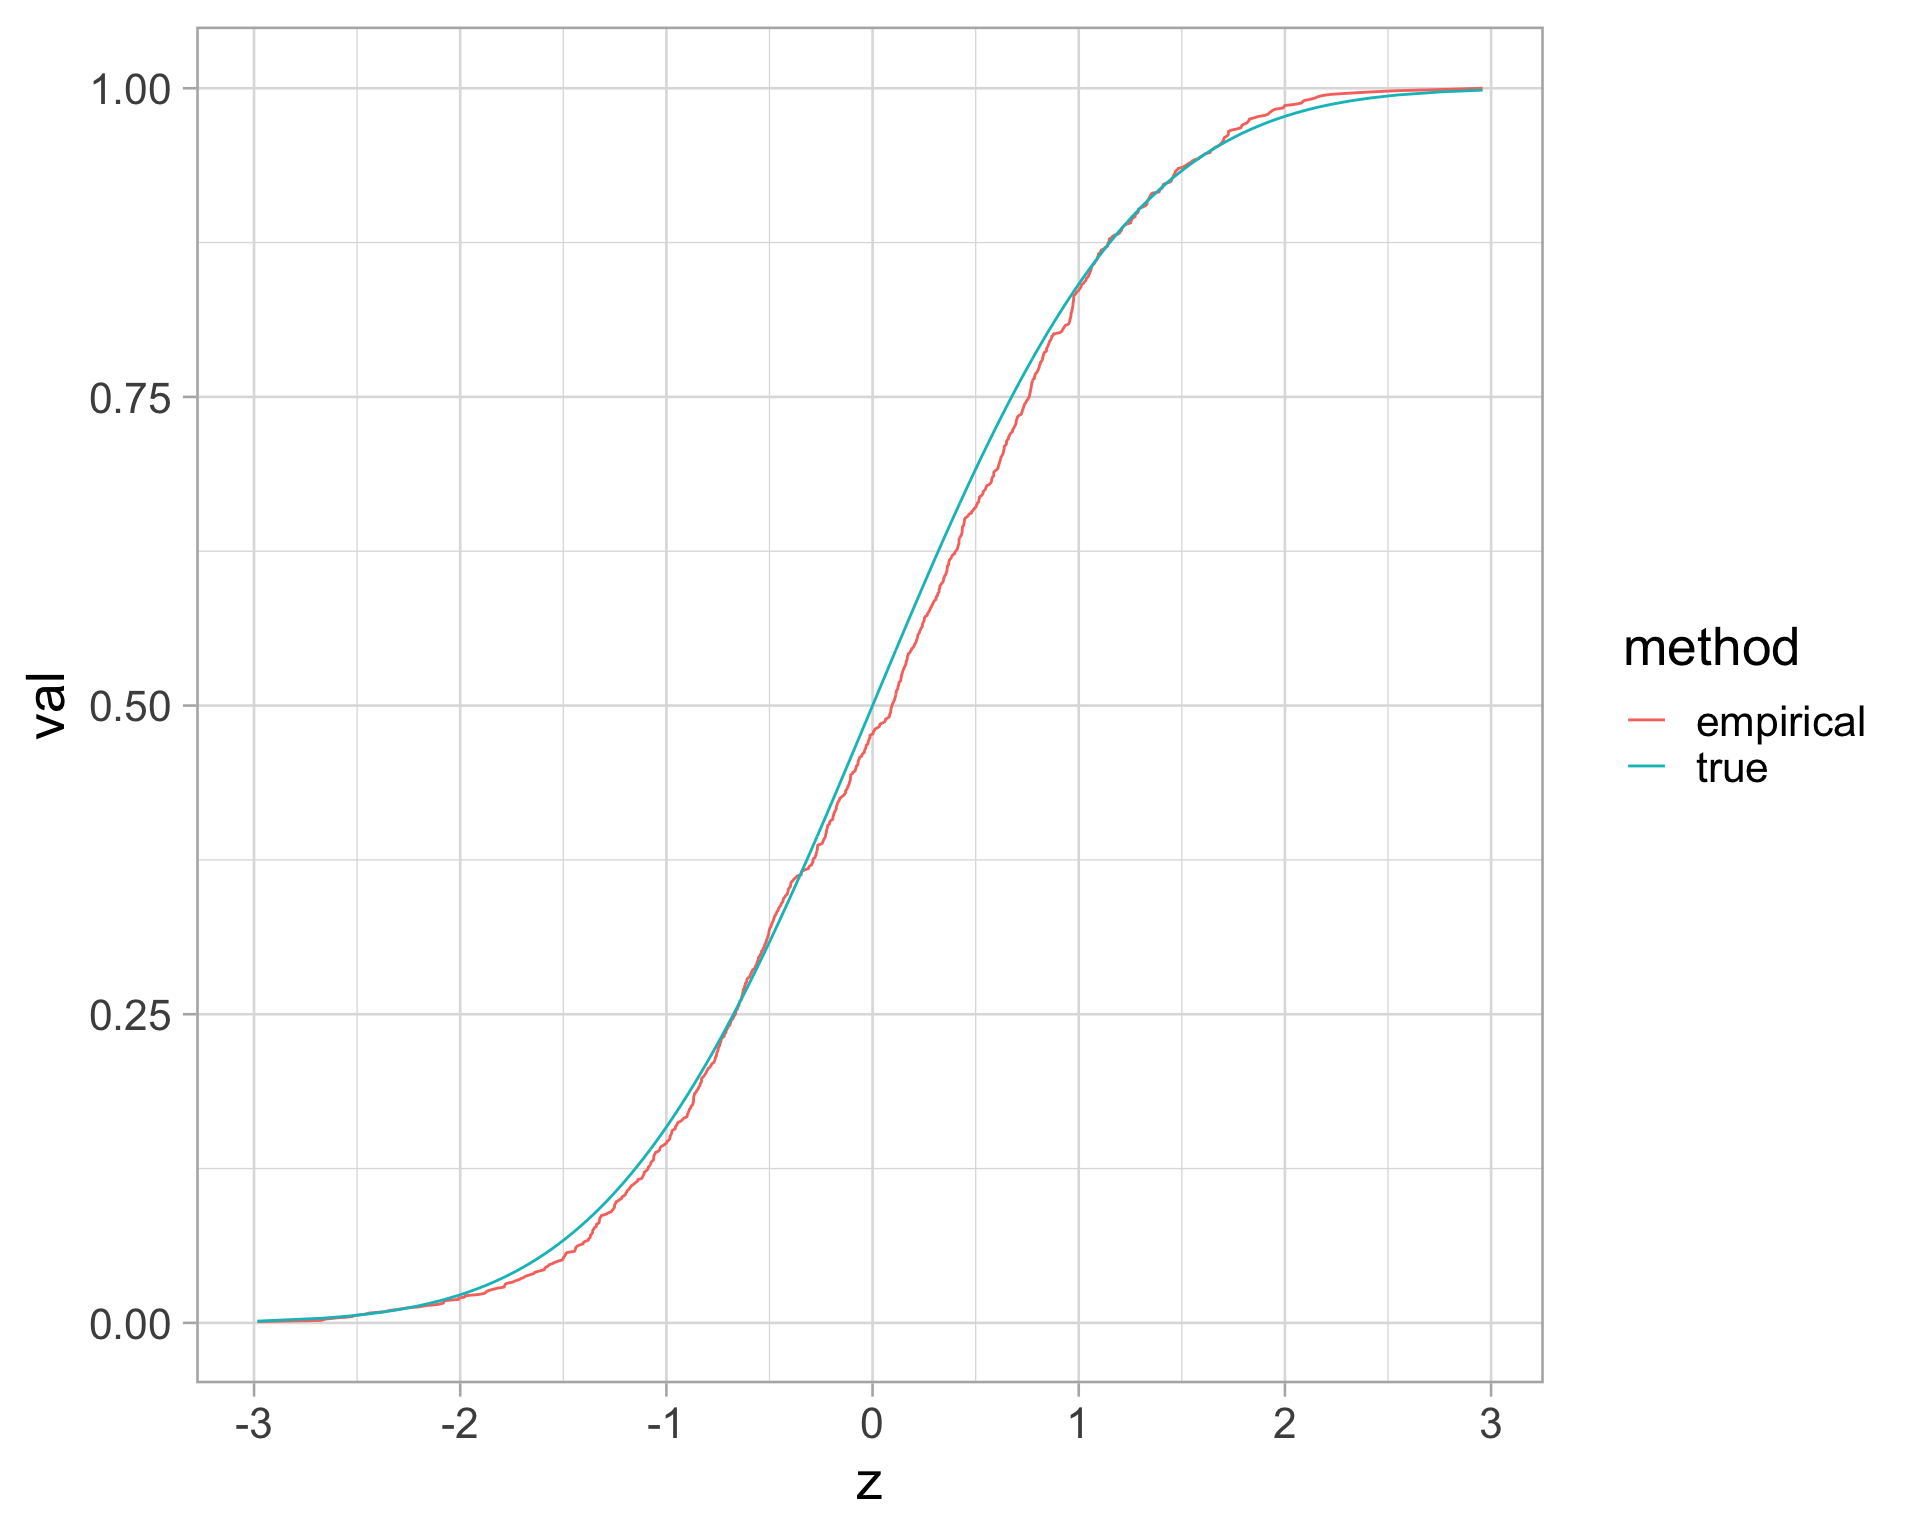
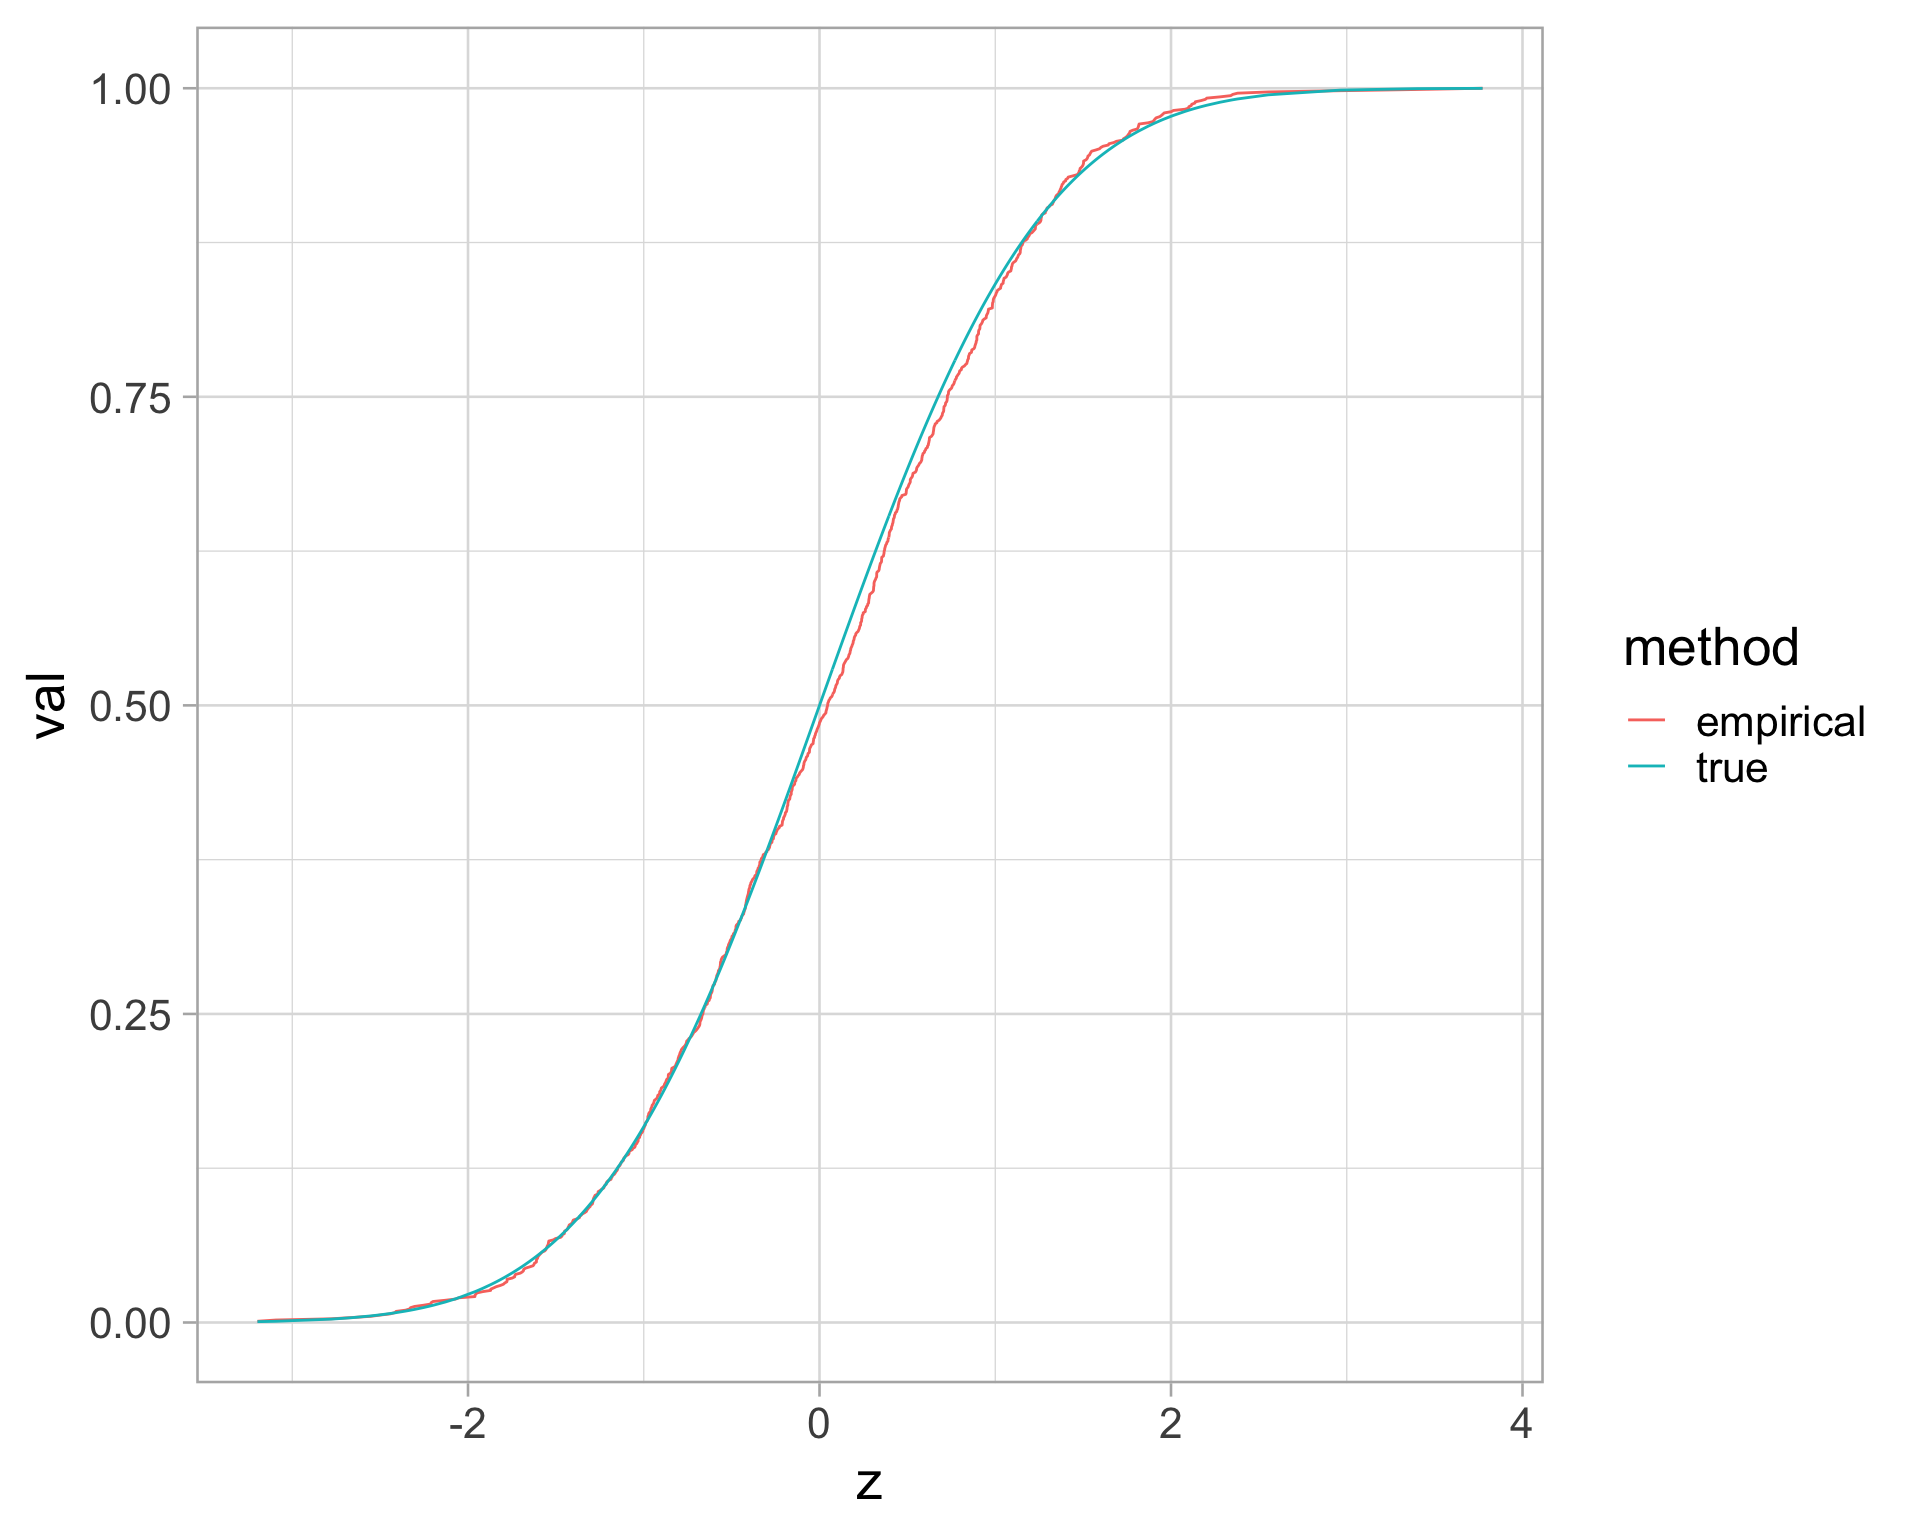
fix

diff --git a/docs/lectures/08-simulation.html b/docs/lectures/08-simulation.html
@@ -437,21 +437,21 @@
 <span id="cb1-3"><a href="#cb1-3" aria-hidden="true" tabindex="-1"></a></span>
 <span id="cb1-4"><a href="#cb1-4" aria-hidden="true" tabindex="-1"></a><span class="fu">sample</span>(letters, <span class="at">size =</span> <span class="dv">5</span>) <span class="co"># sample without replacement, by default</span></span></code><button title="Copy to Clipboard" class="code-copy-button"><i class="bi"></i></button></pre></div>
 <div class="cell-output cell-output-stdout">
-<pre><code>[1] "e" "a" "i" "z" "n"</code></pre>
+<pre><code>[1] "q" "r" "e" "v" "z"</code></pre>
 </div>
 <div class="sourceCode cell-code" id="cb3"><pre class="sourceCode r code-with-copy"><code class="sourceCode r"><span id="cb3-1"><a href="#cb3-1" aria-hidden="true" tabindex="-1"></a><span class="fu">sample</span>(<span class="fu">c</span>(<span class="dv">0</span>, <span class="dv">1</span>), <span class="at">size =</span> <span class="dv">7</span>, <span class="at">replace =</span> <span class="cn">TRUE</span>) <span class="co"># sample with replacement</span></span></code><button title="Copy to Clipboard" class="code-copy-button"><i class="bi"></i></button></pre></div>
 <div class="cell-output cell-output-stdout">
-<pre><code>[1] 1 0 1 0 0 0 1</code></pre>
+<pre><code>[1] 1 1 0 1 1 0 0</code></pre>
 </div>
 <div class="sourceCode cell-code" id="cb5"><pre class="sourceCode r code-with-copy"><code class="sourceCode r"><span id="cb5-1"><a href="#cb5-1" aria-hidden="true" tabindex="-1"></a><span class="co"># 5 (independent) coin tosses</span></span>
 <span id="cb5-2"><a href="#cb5-2" aria-hidden="true" tabindex="-1"></a>coin <span class="ot">&lt;-</span> <span class="fu">c</span>(<span class="st">"H"</span>, <span class="st">"T"</span>)</span>
 <span id="cb5-3"><a href="#cb5-3" aria-hidden="true" tabindex="-1"></a><span class="fu">sample</span>(coin, <span class="dv">5</span>, <span class="at">replace =</span> <span class="cn">TRUE</span>)</span></code><button title="Copy to Clipboard" class="code-copy-button"><i class="bi"></i></button></pre></div>
 <div class="cell-output cell-output-stdout">
-<pre><code>[1] "H" "H" "T" "H" "T"</code></pre>
+<pre><code>[1] "H" "T" "H" "H" "H"</code></pre>
 </div>
 <div class="sourceCode cell-code" id="cb7"><pre class="sourceCode r code-with-copy"><code class="sourceCode r"><span id="cb7-1"><a href="#cb7-1" aria-hidden="true" tabindex="-1"></a><span class="fu">sample</span>(<span class="dv">1</span><span class="sc">:</span><span class="dv">100</span>, <span class="dv">1</span>) <span class="co"># sample a random integer between 1 and 100</span></span></code><button title="Copy to Clipboard" class="code-copy-button"><i class="bi"></i></button></pre></div>
 <div class="cell-output cell-output-stdout">
-<pre><code>[1] 69</code></pre>
+<pre><code>[1] 30</code></pre>
 </div>
 </div>
 </section>
@@ -515,9 +515,9 @@
 <li><p>We write <span class="math inline">\(X \sim \text{Binomial}(n,p)\)</span></p></li>
 </ul>
 <div class="cell">
-<div class="sourceCode cell-code" id="cb10"><pre class="sourceCode r code-with-copy"><code class="sourceCode r"><span id="cb10-1"><a href="#cb10-1" aria-hidden="true" tabindex="-1"></a><span class="fu">tibble</span>(<span class="at">x =</span> <span class="dv">0</span><span class="sc">:</span><span class="dv">20</span>) <span class="sc">%&gt;%</span></span>
+<div class="sourceCode cell-code" id="cb10"><pre class="sourceCode r code-with-copy"><code class="sourceCode r"><span id="cb10-1"><a href="#cb10-1" aria-hidden="true" tabindex="-1"></a><span class="fu">tibble</span>(<span class="at">x =</span> <span class="dv">0</span><span class="sc">:</span><span class="dv">20</span>) <span class="sc">|&gt;</span></span>
 <span id="cb10-2"><a href="#cb10-2" aria-hidden="true" tabindex="-1"></a>  <span class="fu">mutate</span>(<span class="at">binom1 =</span> <span class="fu">dbinom</span>(x, <span class="at">size =</span> <span class="dv">20</span>, <span class="at">prob =</span> <span class="fl">0.5</span>),</span>
-<span id="cb10-3"><a href="#cb10-3" aria-hidden="true" tabindex="-1"></a>         <span class="at">binom2 =</span> <span class="fu">dbinom</span>(x, <span class="at">size =</span> <span class="dv">20</span>, <span class="at">prob =</span> <span class="fl">0.1</span>)) <span class="sc">%&gt;%</span></span>
+<span id="cb10-3"><a href="#cb10-3" aria-hidden="true" tabindex="-1"></a>         <span class="at">binom2 =</span> <span class="fu">dbinom</span>(x, <span class="at">size =</span> <span class="dv">20</span>, <span class="at">prob =</span> <span class="fl">0.1</span>)) <span class="sc">|&gt;</span></span>
 <span id="cb10-4"><a href="#cb10-4" aria-hidden="true" tabindex="-1"></a>  <span class="fu">ggplot</span>(<span class="fu">aes</span>(x)) <span class="sc">+</span> </span>
 <span id="cb10-5"><a href="#cb10-5" aria-hidden="true" tabindex="-1"></a>  <span class="fu">geom_point</span>(<span class="fu">aes</span>(<span class="at">y =</span> binom1), <span class="at">color =</span> <span class="st">"blue"</span>, <span class="at">size =</span> <span class="dv">4</span>) <span class="sc">+</span></span>
 <span id="cb10-6"><a href="#cb10-6" aria-hidden="true" tabindex="-1"></a>  <span class="fu">geom_point</span>(<span class="fu">aes</span>(<span class="at">y =</span> binom2), <span class="at">color =</span> <span class="st">"red"</span>, <span class="at">size =</span> <span class="dv">4</span>)</span></code><button title="Copy to Clipboard" class="code-copy-button"><i class="bi"></i></button></pre></div>
@@ -578,12 +578,12 @@
 <span id="cb12-3"><a href="#cb12-3" aria-hidden="true" tabindex="-1"></a><span class="co"># check: the sample mean is approximately 0</span></span>
 <span id="cb12-4"><a href="#cb12-4" aria-hidden="true" tabindex="-1"></a><span class="fu">mean</span>(z) </span></code><button title="Copy to Clipboard" class="code-copy-button"><i class="bi"></i></button></pre></div>
 <div class="cell-output cell-output-stdout">
-<pre><code>[1] 0.03973818</code></pre>
+<pre><code>[1] 0.02160449</code></pre>
 </div>
 <div class="sourceCode cell-code" id="cb14"><pre class="sourceCode r code-with-copy"><code class="sourceCode r"><span id="cb14-1"><a href="#cb14-1" aria-hidden="true" tabindex="-1"></a><span class="co"># check: the sample sd is approximately 1</span></span>
 <span id="cb14-2"><a href="#cb14-2" aria-hidden="true" tabindex="-1"></a><span class="fu">sd</span>(z)</span></code><button title="Copy to Clipboard" class="code-copy-button"><i class="bi"></i></button></pre></div>
 <div class="cell-output cell-output-stdout">
-<pre><code>[1] 0.975771</code></pre>
+<pre><code>[1] 1.002257</code></pre>
 </div>
 </div>
 </section>
@@ -596,7 +596,7 @@
 <div class="sourceCode cell-code" id="cb16"><pre class="sourceCode r code-with-copy"><code class="sourceCode r"><span id="cb16-1"><a href="#cb16-1" aria-hidden="true" tabindex="-1"></a>z_ecdf <span class="ot">&lt;-</span> <span class="fu">ecdf</span>(z)</span>
 <span id="cb16-2"><a href="#cb16-2" aria-hidden="true" tabindex="-1"></a><span class="fu">z_ecdf</span>(<span class="dv">0</span>) <span class="co"># should get close to 1/2</span></span></code><button title="Copy to Clipboard" class="code-copy-button"><i class="bi"></i></button></pre></div>
 <div class="cell-output cell-output-stdout">
-<pre><code>[1] 0.476</code></pre>
+<pre><code>[1] 0.485</code></pre>
 </div>
 <div class="sourceCode cell-code" id="cb18"><pre class="sourceCode r code-with-copy"><code class="sourceCode r"><span id="cb18-1"><a href="#cb18-1" aria-hidden="true" tabindex="-1"></a><span class="fu">class</span>(z_ecdf)</span></code><button title="Copy to Clipboard" class="code-copy-button"><i class="bi"></i></button></pre></div>
 <div class="cell-output cell-output-stdout">
@@ -608,18 +608,18 @@
 <span id="cb20-4"><a href="#cb20-4" aria-hidden="true" tabindex="-1"></a>normal_tbl</span></code><button title="Copy to Clipboard" class="code-copy-button"><i class="bi"></i></button></pre></div>
 <div class="cell-output cell-output-stdout">
 <pre><code># A tibble: 1,000 × 3
-       z empirical    true
-   &lt;dbl&gt;     &lt;dbl&gt;   &lt;dbl&gt;
- 1 -2.98     0.001 0.00143
- 2 -2.67     0.002 0.00374
- 3 -2.66     0.003 0.00395
- 4 -2.60     0.004 0.00465
- 5 -2.53     0.005 0.00576
- 6 -2.51     0.006 0.00601
- 7 -2.46     0.007 0.00687
- 8 -2.44     0.008 0.00736
- 9 -2.37     0.009 0.00889
-10 -2.34     0.01  0.00954
+       z empirical     true
+   &lt;dbl&gt;     &lt;dbl&gt;    &lt;dbl&gt;
+ 1 -3.20     0.001 0.000692
+ 2 -3.09     0.002 0.000988
+ 3 -2.78     0.003 0.00274 
+ 4 -2.66     0.004 0.00386 
+ 5 -2.55     0.005 0.00533 
+ 6 -2.50     0.006 0.00619 
+ 7 -2.44     0.007 0.00729 
+ 8 -2.42     0.008 0.00784 
+ 9 -2.41     0.009 0.00799 
+10 -2.36     0.01  0.00926 
 # ℹ 990 more rows</code></pre>
 </div>
 </div>
@@ -653,7 +653,7 @@
 <span id="cb23-5"><a href="#cb23-5" aria-hidden="true" tabindex="-1"></a><span class="co"># hist(ratio)</span></span>
 <span id="cb23-6"><a href="#cb23-6" aria-hidden="true" tabindex="-1"></a><span class="fu">mean</span>(ratio) <span class="co"># exact answer: 2 * log(2) - 1</span></span></code><button title="Copy to Clipboard" class="code-copy-button"><i class="bi"></i></button></pre></div>
 <div class="cell-output cell-output-stdout">
-<pre><code>[1] 0.3822925</code></pre>
+<pre><code>[1] 0.3859742</code></pre>
 </div>
 </div>
 </div>
@@ -691,7 +691,7 @@
 <span id="cb25-4"><a href="#cb25-4" aria-hidden="true" tabindex="-1"></a>inside <span class="ot">&lt;-</span> <span class="fu">ifelse</span>(x<span class="sc">^</span><span class="dv">2</span> <span class="sc">+</span> y<span class="sc">^</span><span class="dv">2</span> <span class="sc">&lt;=</span> <span class="dv">1</span>, <span class="dv">1</span>, <span class="dv">0</span>)</span>
 <span id="cb25-5"><a href="#cb25-5" aria-hidden="true" tabindex="-1"></a><span class="dv">4</span> <span class="sc">*</span> <span class="fu">mean</span>(inside)</span></code><button title="Copy to Clipboard" class="code-copy-button"><i class="bi"></i></button></pre></div>
 <div class="cell-output cell-output-stdout">
-<pre><code>[1] 3.1364</code></pre>
+<pre><code>[1] 3.1464</code></pre>
 </div>
 </div>
 </div><div class="column" style="text-align: left;">
@@ -718,15 +718,15 @@
 <div class="cell">
 <div class="sourceCode cell-code" id="cb28"><pre class="sourceCode r code-with-copy"><code class="sourceCode r"><span id="cb28-1"><a href="#cb28-1" aria-hidden="true" tabindex="-1"></a><span class="fu">mean</span>(<span class="fu">rnorm</span>(<span class="dv">100</span>))</span></code><button title="Copy to Clipboard" class="code-copy-button"><i class="bi"></i></button></pre></div>
 <div class="cell-output cell-output-stdout">
-<pre><code>[1] -0.0928059</code></pre>
+<pre><code>[1] 0.04843008</code></pre>
 </div>
 <div class="sourceCode cell-code" id="cb30"><pre class="sourceCode r code-with-copy"><code class="sourceCode r"><span id="cb30-1"><a href="#cb30-1" aria-hidden="true" tabindex="-1"></a><span class="fu">mean</span>(<span class="fu">rnorm</span>(<span class="dv">100</span>))</span></code><button title="Copy to Clipboard" class="code-copy-button"><i class="bi"></i></button></pre></div>
 <div class="cell-output cell-output-stdout">
-<pre><code>[1] 0.08249062</code></pre>
+<pre><code>[1] -0.0568882</code></pre>
 </div>
 <div class="sourceCode cell-code" id="cb32"><pre class="sourceCode r code-with-copy"><code class="sourceCode r"><span id="cb32-1"><a href="#cb32-1" aria-hidden="true" tabindex="-1"></a><span class="fu">mean</span>(<span class="fu">rnorm</span>(<span class="dv">100</span>))</span></code><button title="Copy to Clipboard" class="code-copy-button"><i class="bi"></i></button></pre></div>
 <div class="cell-output cell-output-stdout">
-<pre><code>[1] -0.09859748</code></pre>
+<pre><code>[1] 0.03697312</code></pre>
 </div>
 </div>
 </section>
